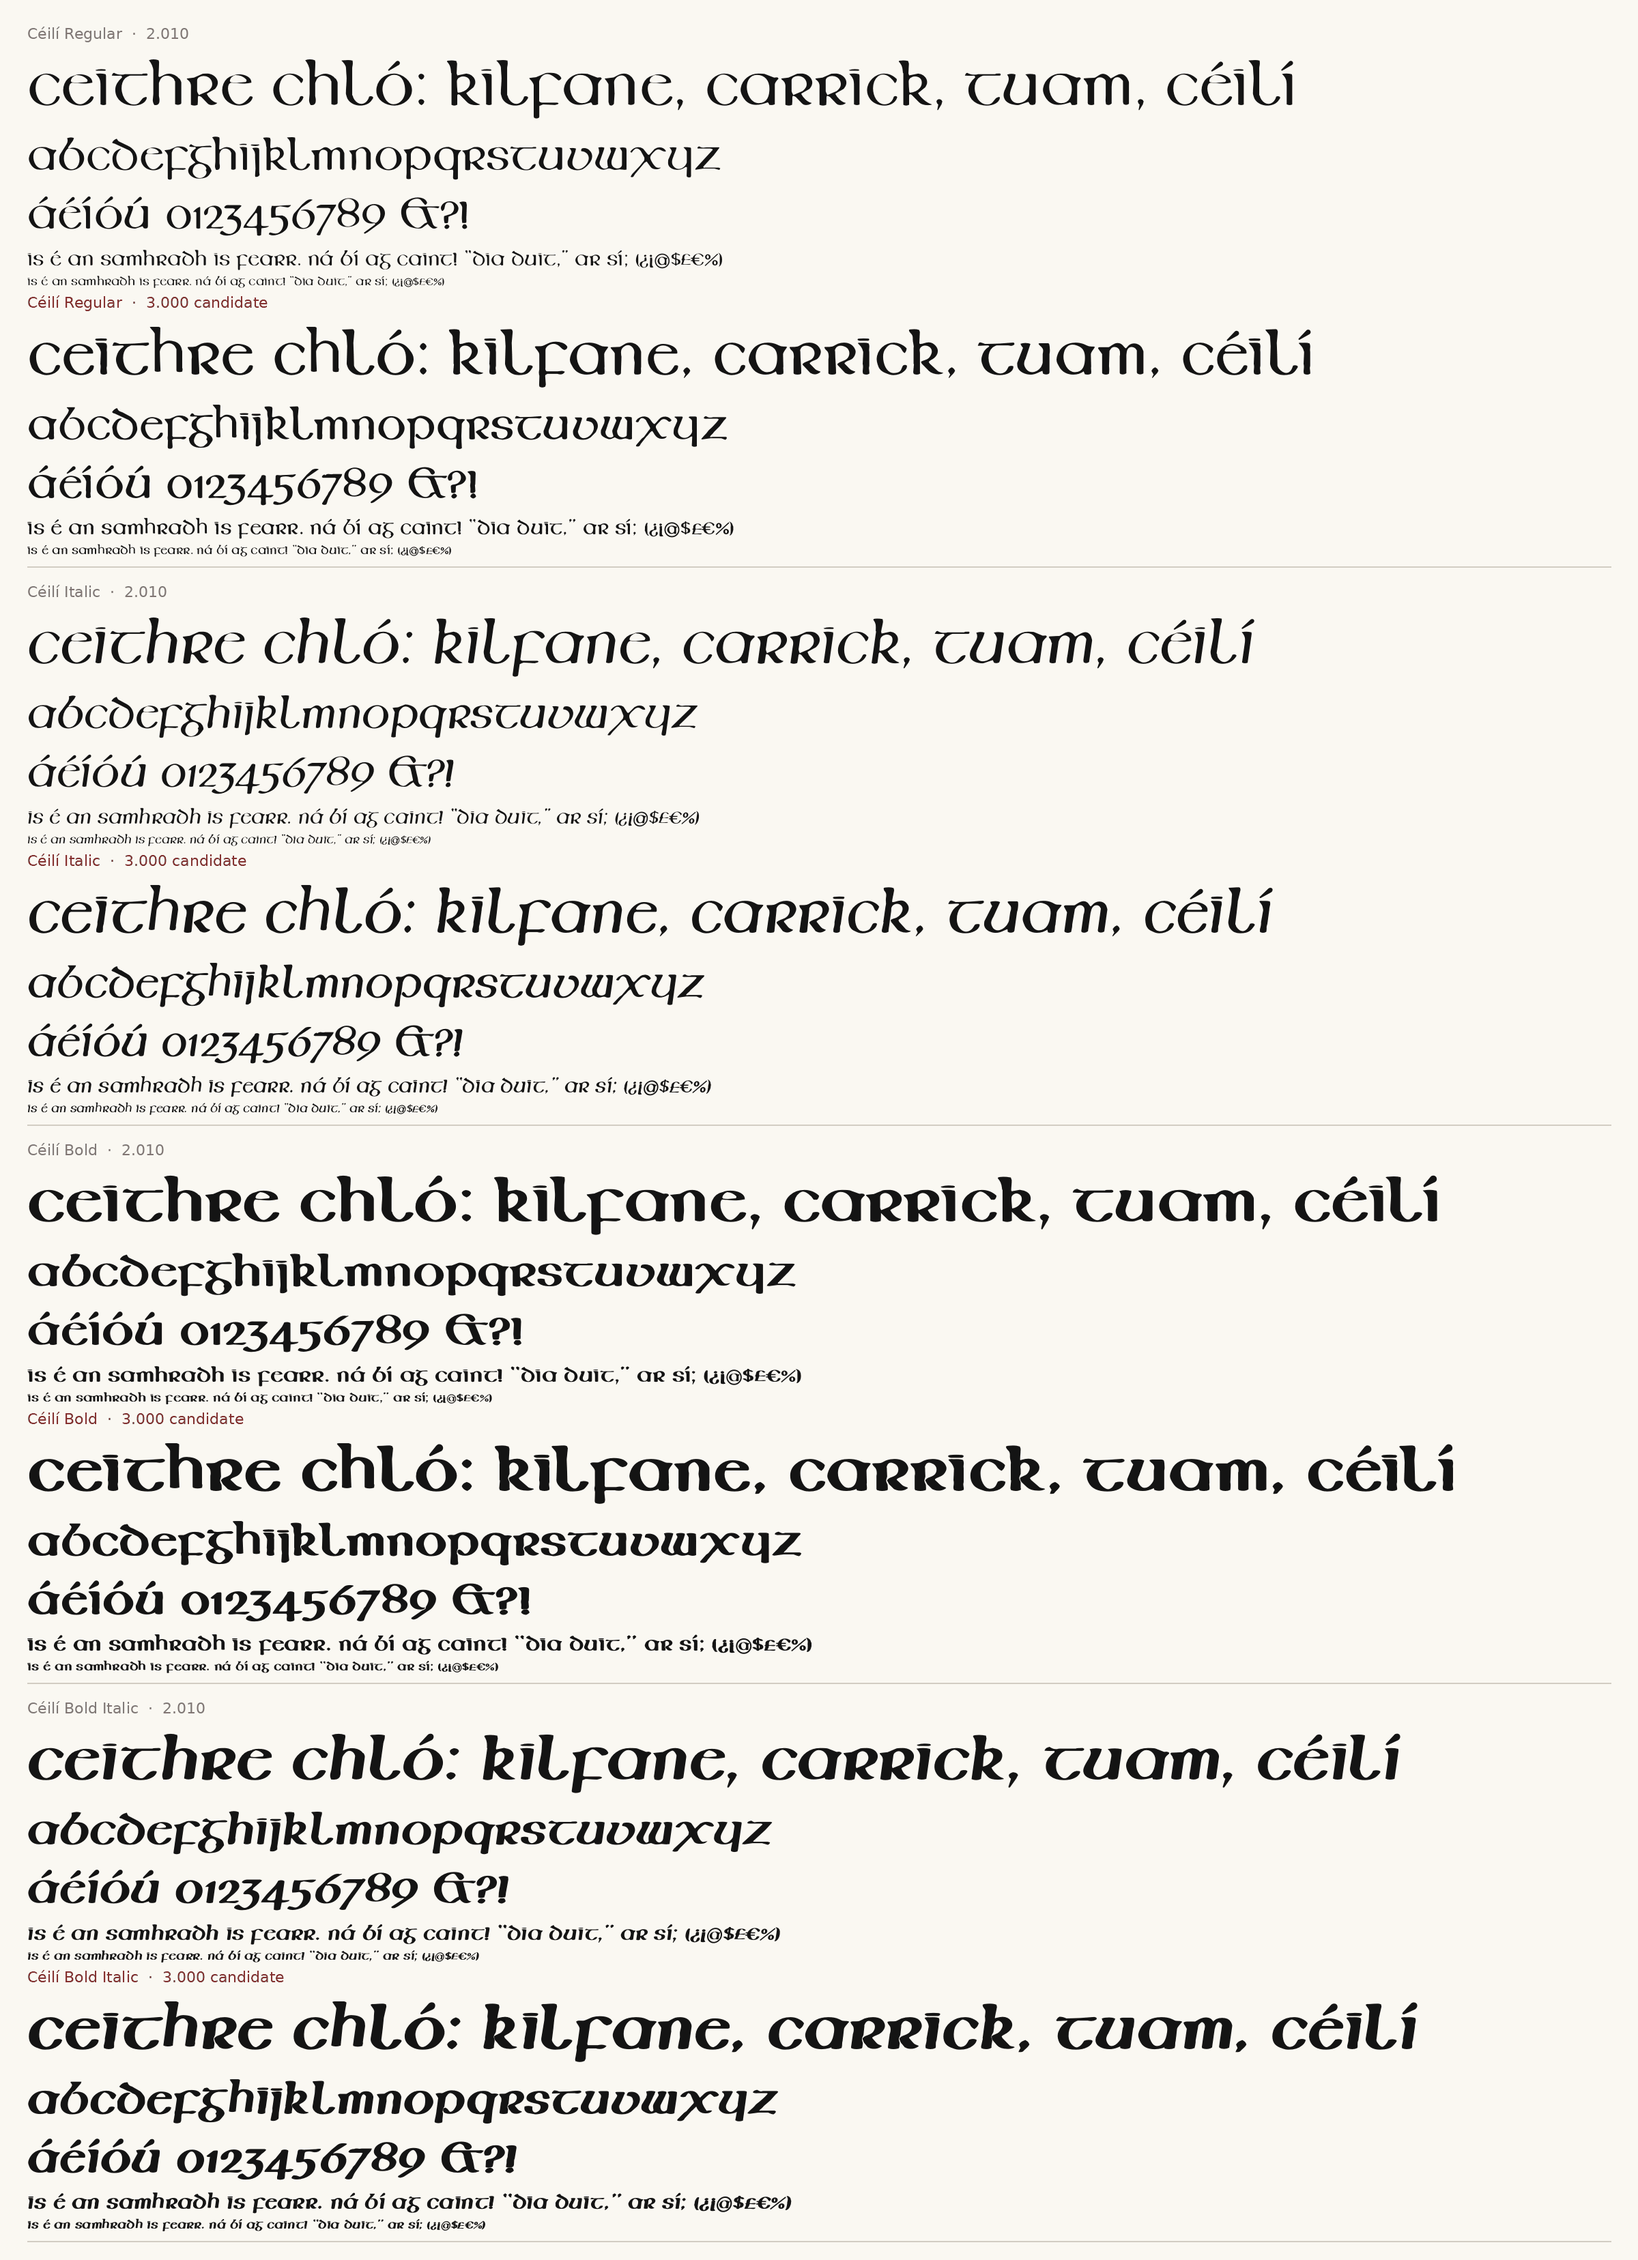
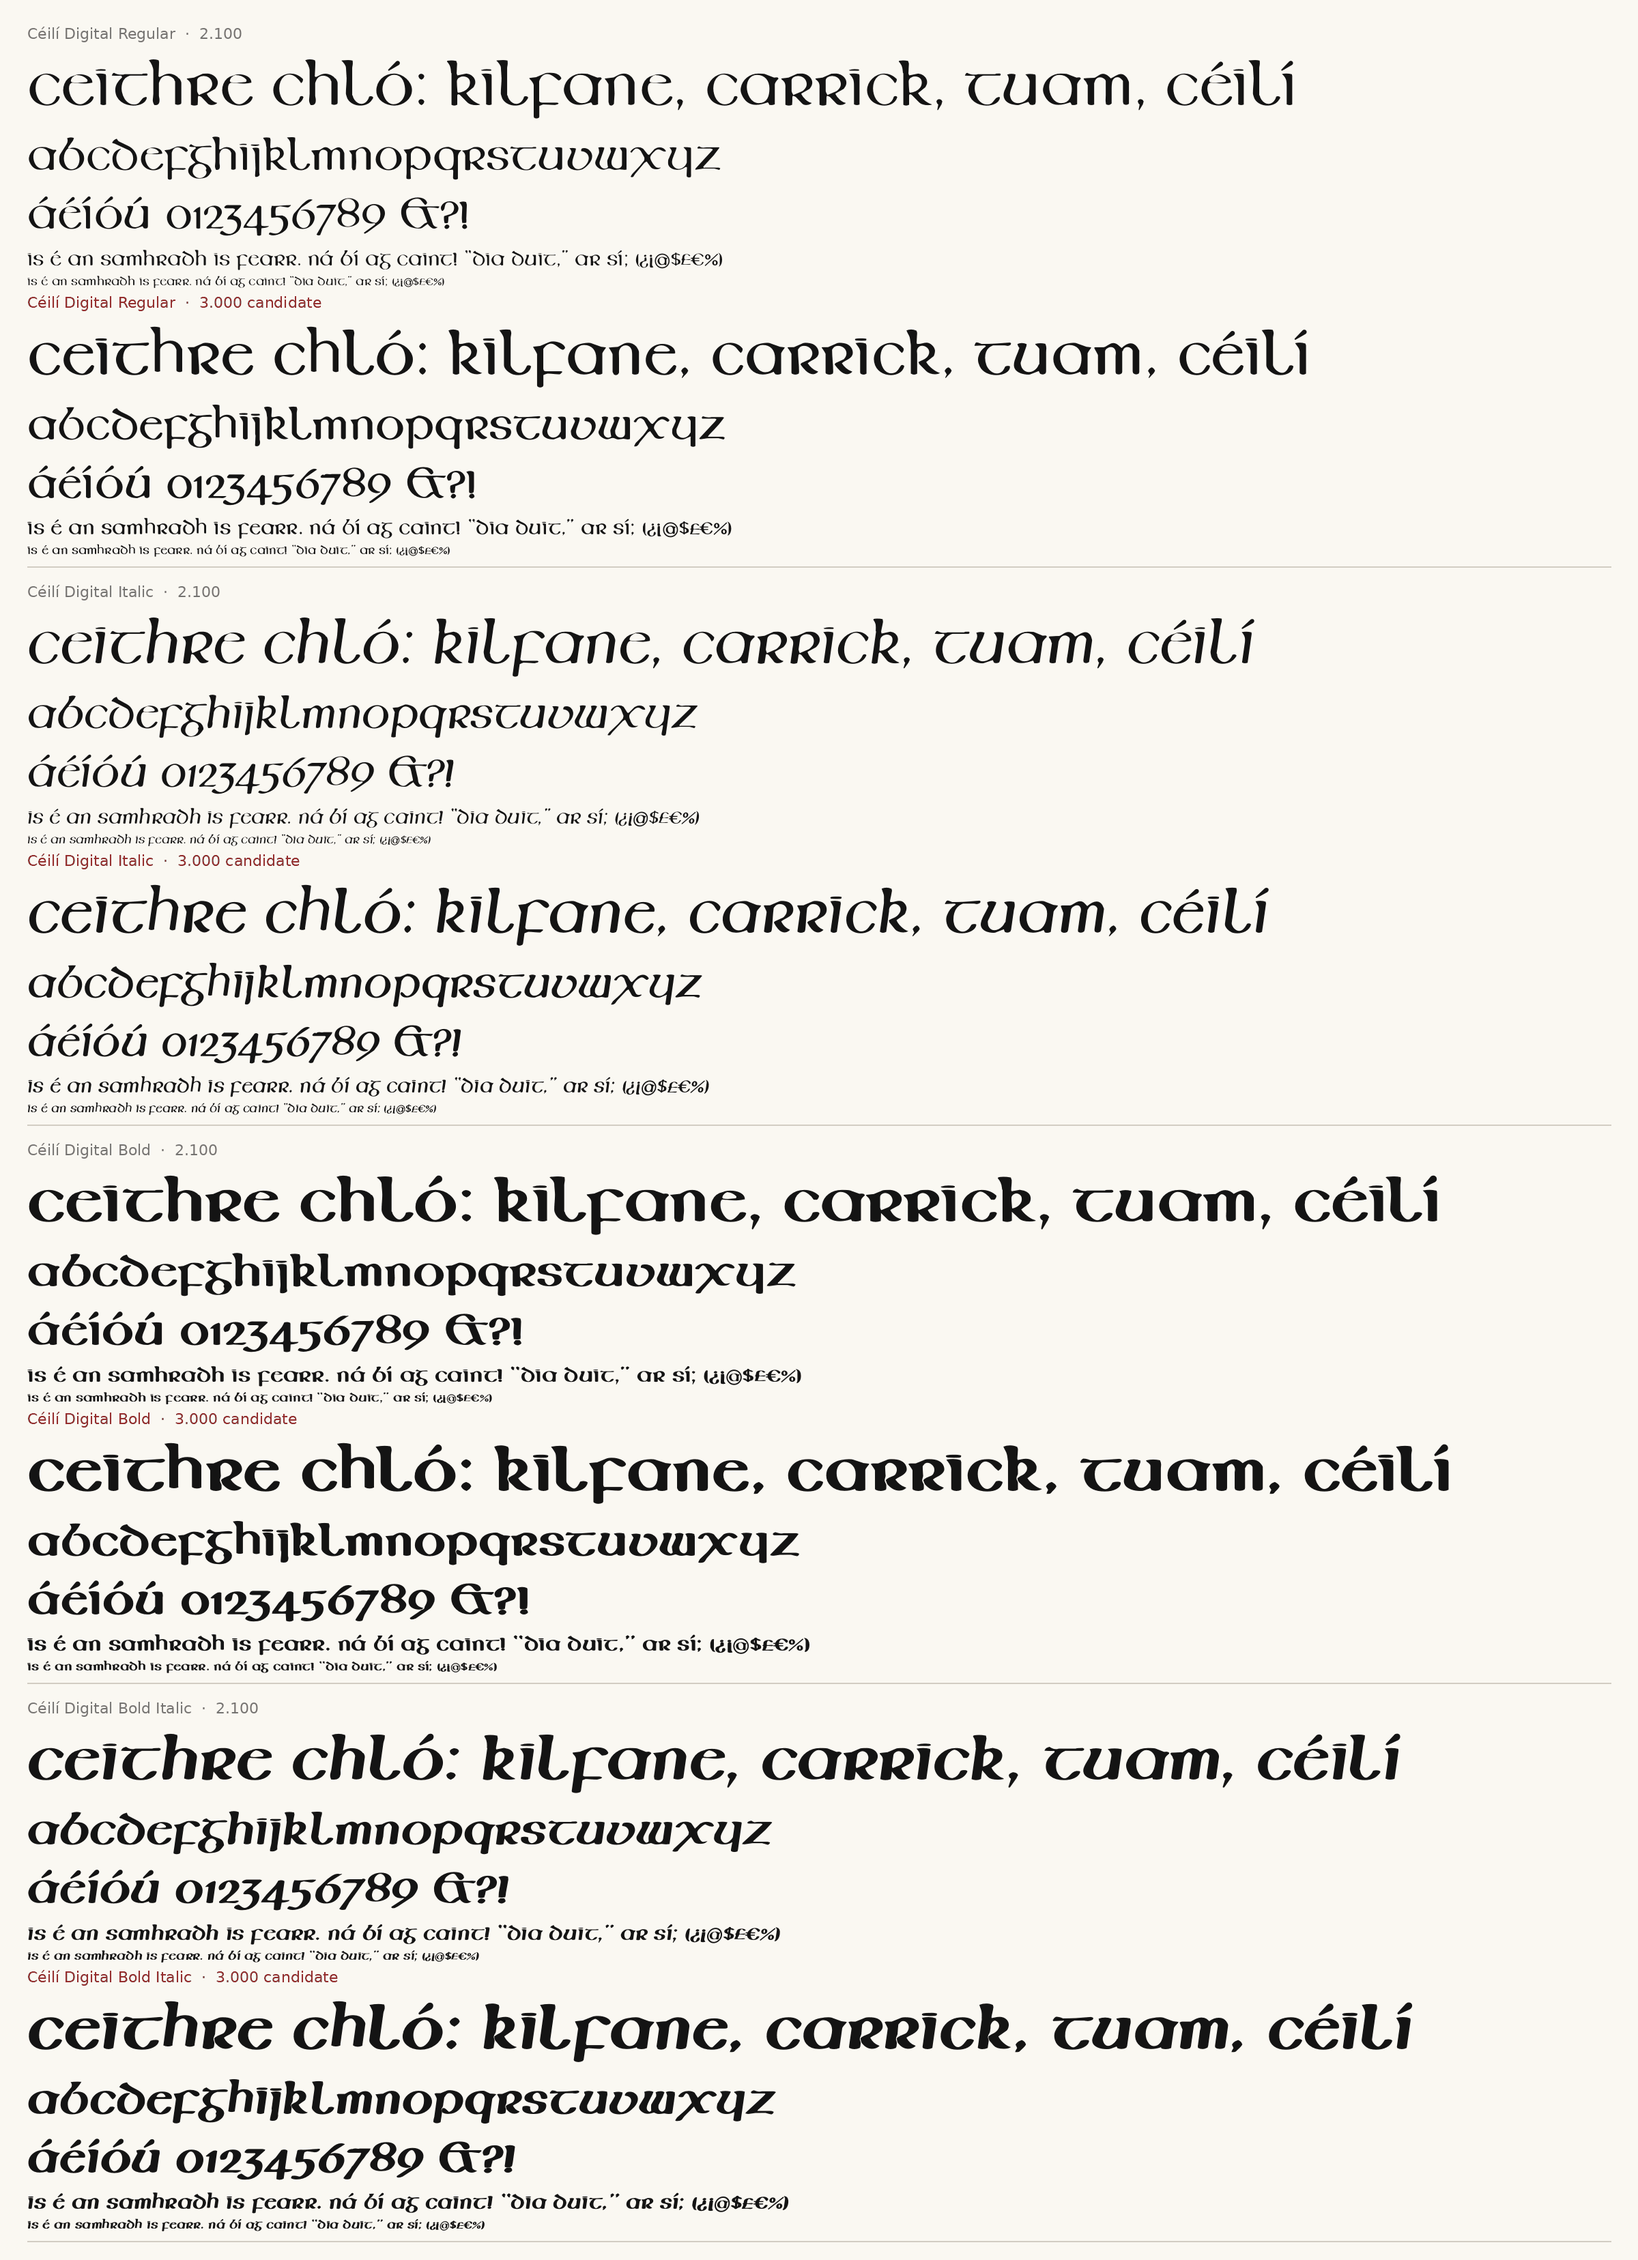
Release candidate: Kilfane from Study 4; proofs and audits rerun
The 3.000 candidate now builds Kilfane from Study 4 (research/kilfane-judgement).
All twelve styles: 0 collisions in 1,346,872 shaped pairs; 20 of 21 release
checks pass (style linking expects the release's version); Kilfane's styles
keep every counter, and the Bold Italic's eng slit is gone. Proofs set the
release (labelled with its own version) beside the candidate.

Claude-Session: https://claude.ai/code/session_01RSExFUjGdXcKon7jzBpkZB

diff --git a/scripts/candidate_proofs.py b/scripts/candidate_proofs.py
@@ -36,7 +36,7 @@ def sheet(face, release, candidate, out):
     small = label_font(22)
     for style in styles:
         fn = f'{ps}-{style.replace(" ", "")}.otf'
-        for tag, d, colour in (('2.010', release, GREY), ('3.000 candidate', candidate, RED)):
+        for tag, d, colour in ((build2.VERSION, release, GREY), ('3.000 candidate', candidate, RED)):
             path = os.path.join(d, fn)
             if not os.path.exists(path):
                 continue

diff --git a/research/release-readiness.md b/research/release-readiness.md
@@ -2,7 +2,8 @@
 
 Task R1 in the [continuation plan](../docs/superpowers/plans/2026-10-25-continuation.md).
 This is a proposal, not a release: `fonts/`, `sources/traced/`, the release metadata
-and the showcase still carry 2.010. Promotion needs the user's explicit approval.
+and the showcase still carry 2.100 (2.010 renamed "Digital"; outlines unchanged). Promotion
+needs the user's explicit approval.
 
 ## What the candidate is
 
@@ -17,7 +18,7 @@ derives them from the flyer.
 
 | Face | Study and traces | Traced from | Kept from the flyer | Median ink change from 2.010 | Lowercase mean advance |
 |---|---|---|---|---:|---:|
-| Kilfane | Study 2, `round-02` | N516 alphabet specimen; N47 for v, w | T, U, k, l, loose-mark cluster | 15% | 507 → 504 |
+| Kilfane | Study 4, `kilfane-judgement` (on round 2 and Study 3) | N516 alphabet specimen; N517 means for 16 capitals; N47 for v, w | loose-mark cluster | 18% | 507 → 501 |
 | Carrick | Study 2, `round-05` | N513 alphabet specimen; N513 named marks | e, f, x, y (and the lower paired mark) | 24% | 659 → 640 |
 | Tuam Uncial | Study 2, `round-03` | N46 (NIVAL's copy of the flyer) | none | 8% | 850 → 857 |
 | Céilí | Study 3, `round-04` | N46; N45 punctuation | the loose dots (DOTS) | 18% | 611 → 616 |
@@ -30,8 +31,14 @@ agreement is not independent confirmation.
 
 Proofs (font-only): [Kilfane](release-candidate/proofs/kilfane.png),
 [Carrick](release-candidate/proofs/carrick.png), [Tuam Uncial](release-candidate/proofs/tuam.png),
-[Céilí](release-candidate/proofs/ceili.png). Each sets the same lines in 2.010 and in the
-candidate, style by style.
+[Céilí](release-candidate/proofs/ceili.png). Each sets the same lines in the release and in
+the candidate, style by style.
+
+Kilfane's candidate is [Study 4](kilfane-judgement/README.md), the judgement pass: capitals from
+the production sheets held to N516's frame, T, U, k and l traced from N516, and the e's notch eased
+(a recorded judged edit). The candidate also sits Kilfane's square stem feet (F, P, V, 4, 7, the
+roman alternates) on the baseline instead of 8 units below it (`FLAT_FOOT_WIDENING`, Kilfane only:
+the other faces' feet have not been reviewed).
 
 ## The 2026 styles (modern extensions)
 
@@ -62,7 +69,7 @@ Topology after the fixes (`scripts/topo.py`, pieces and counters per glyph):
 |---|---|---|
 | Kilfane Regular → Bold | none | |
 | Kilfane Regular → Italic | none | |
-| Kilfane Bold → Bold Italic | ŋ | A slit under 4 units closes; 2.010 has the same. Accept. |
+| Kilfane Bold → Bold Italic | none | (Study 2 flagged ŋ: a slit under 4 units; gone with Study 4.) |
 | Céilí Regular → Bold | 6 | Joins by design (`BOLD['ceili']['joins']`), as in 2.010. Accept. |
 | Céilí Regular → Italic, Bold → Bold Italic | none | |
 | Carrick Regular → Italic | ¾ | At fraction size the 3's notch mouth is under 2 units, already shut at raster resolution in the Regular. Accept. |
@@ -72,11 +79,11 @@ Topology after the fixes (`scripts/topo.py`, pieces and counters per glyph):
 
 | Check | Result |
 |---|---|
-| `FONTDIR=build/candidate/fonts pytest tests/test_release.py tests/test_shaping.py` | 18 of 20 pass. Style linking fails only because the expected version is still 2.010. Bold counters: 0 flags beyond the designed Céilí 6. |
+| `FONTDIR=build/candidate/fonts pytest tests/test_release.py tests/test_shaping.py` | 20 of 21 pass. Style linking fails only because the expected version is the release's (2.100). Bold counters: 0 flags beyond the designed Céilí 6. The "Digital" naming check passes. |
 | Pair collisions, all 12 styles ([summary](release-candidate/pair-audit.json)) | 0 collisions in 1,346,872 HarfBuzz-shaped pairs: Latin letters, figures and punctuation, default features |
 | OTS, 48 files (OTF, TTF, WOFF, WOFF2) | no failures |
 | Font Bakery `check-universal`, per family | 0 FAIL, 0 ERROR; the same two WARN kinds as 2.010 (decomposed carons, contour counts) |
-| Full test suite on the committed fonts | 131 pass; the release rebuilds byte-identical |
+| Full test suite on the committed fonts | 145 pass; the release rebuilds byte-identical |
 
 ## Before promotion
 
@@ -89,8 +96,8 @@ Topology after the fixes (`scripts/topo.py`, pieces and counters per glyph):
    exact study commits above.
 4. **Open source issues stay open.** Carrick's legacy e/f/x/y wait on C1/C2. A Carrick
    Study 3 would replace the Carrick Regular, so release only after C1/C2 resolve, or
-   promote Carrick with its four legacy letters labelled. The same goes for Kilfane
-   T/U/k/l and the zero disagreement, Céilí's unassigned punctuation, and Tuam's N45/N46
+   promote Carrick with its four legacy letters labelled. The same goes for Kilfane's
+   zero disagreement (T/U/k/l are traced from N516 in Study 4), Céilí's unassigned punctuation, and Tuam's N45/N46
    disagreements and recomposed accents. Each glyph's provenance file already labels it
    as traced, retained legacy or modern construction.
 
